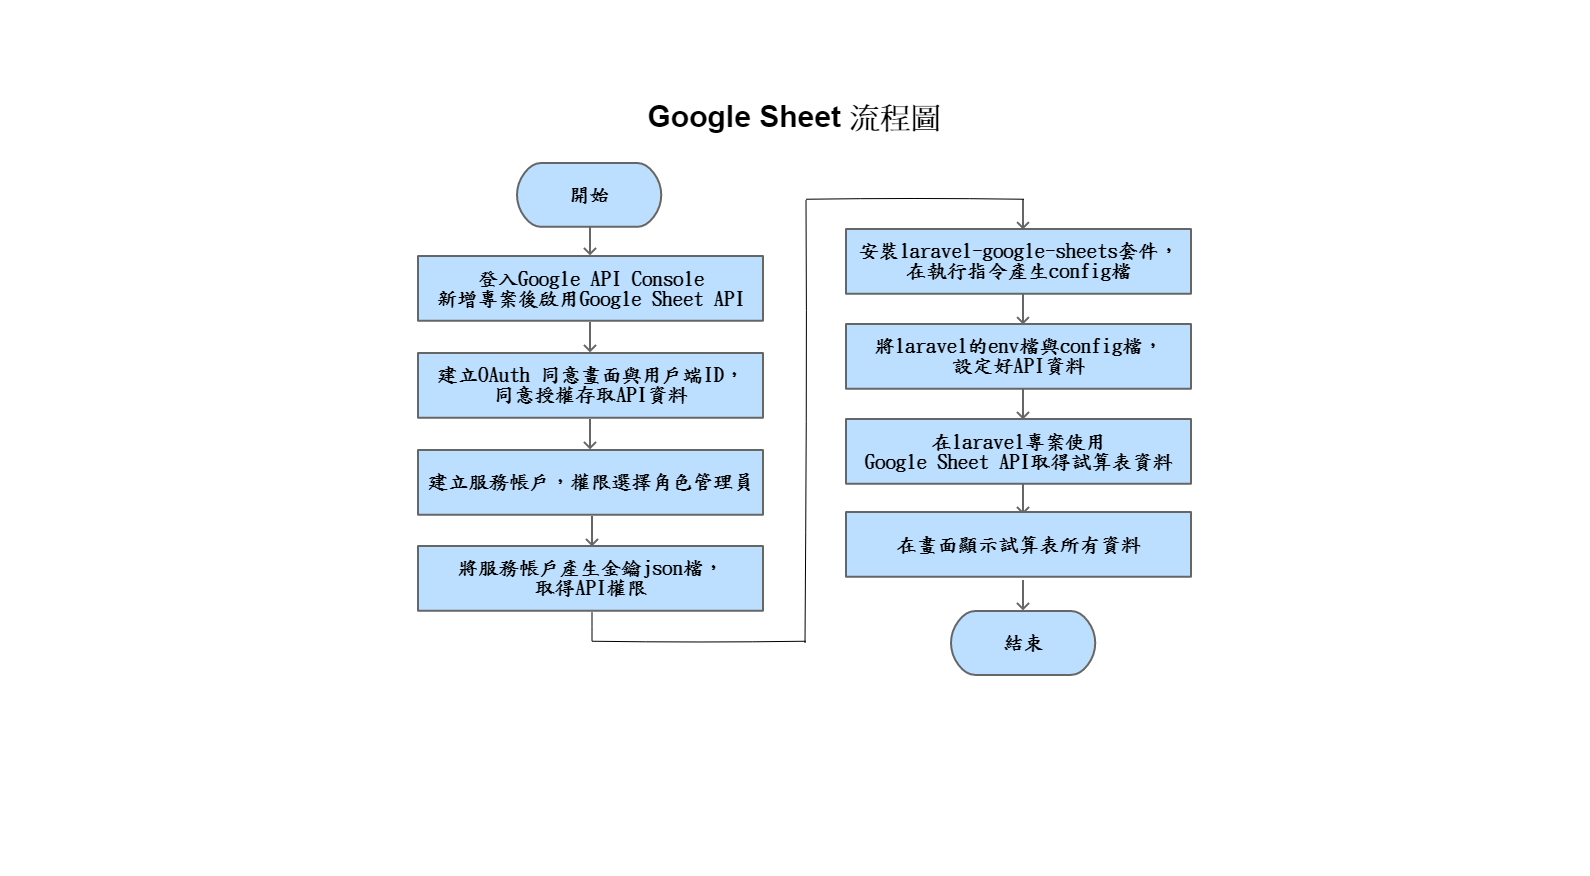
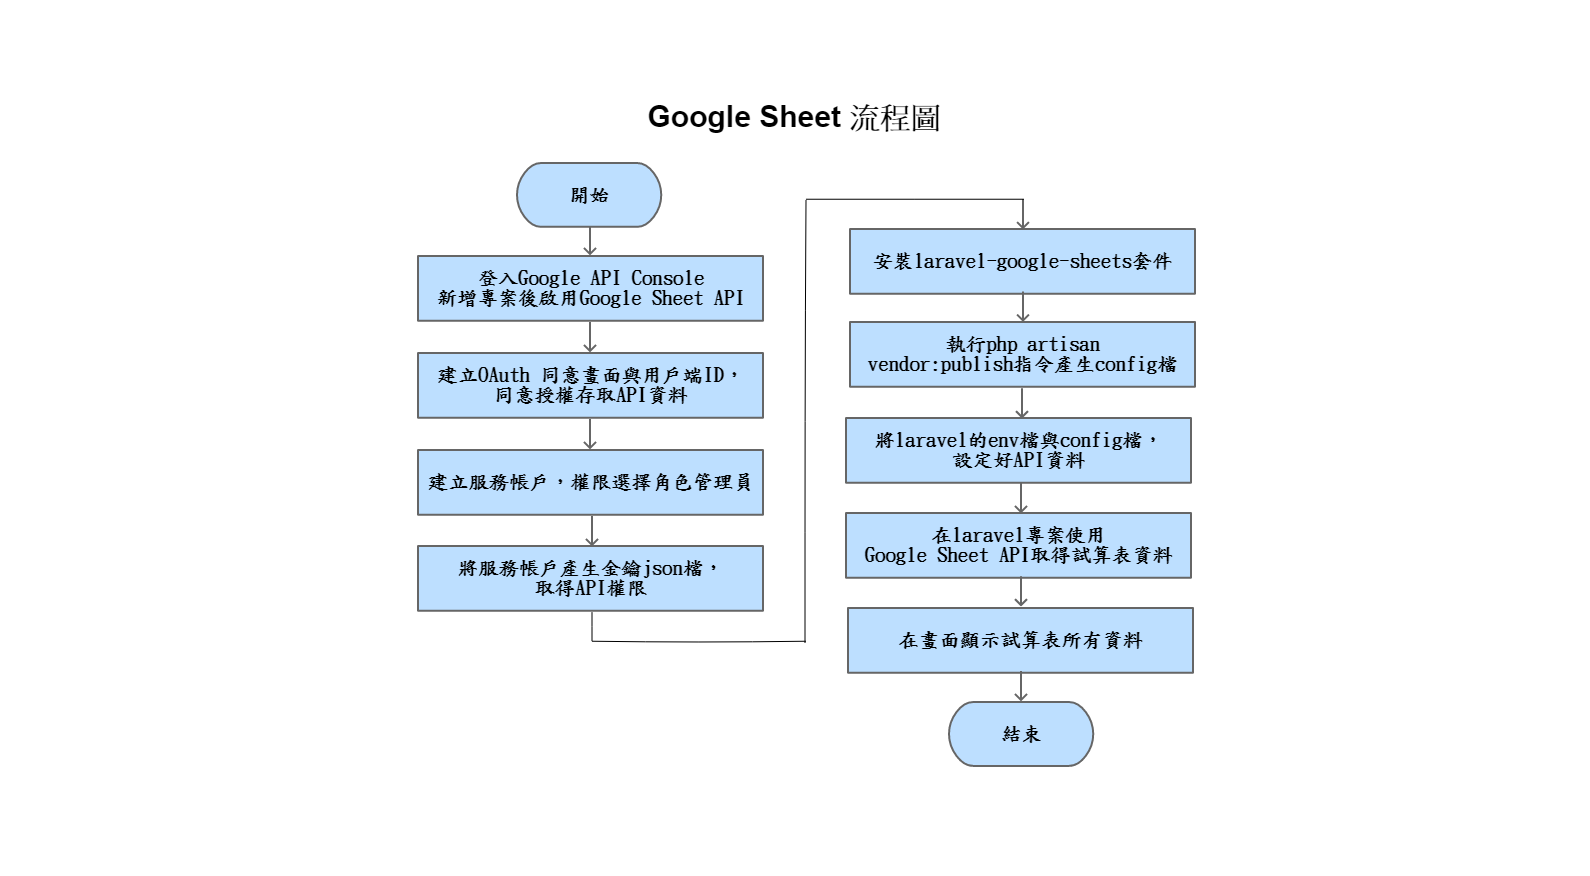
docs: 更新google sheet文件流程圖(未完成:還沒畫完)

Changed region(s): [[0.5239, 0.2774, 0.7704, 0.8938], [0.2774, 0.3082, 0.4623, 0.3699]]

diff --git a/google sheet.md b/google sheet.md
@@ -81,8 +81,6 @@ G Suite 方案的google帳號需要付費，這裡建議選擇外部即可。
 
 OAuth 用戶端ID主要是同意授權存取API資料，服務帳戶則是利用金鑰json檔取得API權限。
 
-這兩個用在哪??有沒有關聯?【為什麼要這個兩個步驟?這兩個是幹嘛?】
-
 P12為PKCS 12，是一個有時效性的私密金鑰檔案(.p12)，由建立憑證取得API資訊。
 
 
